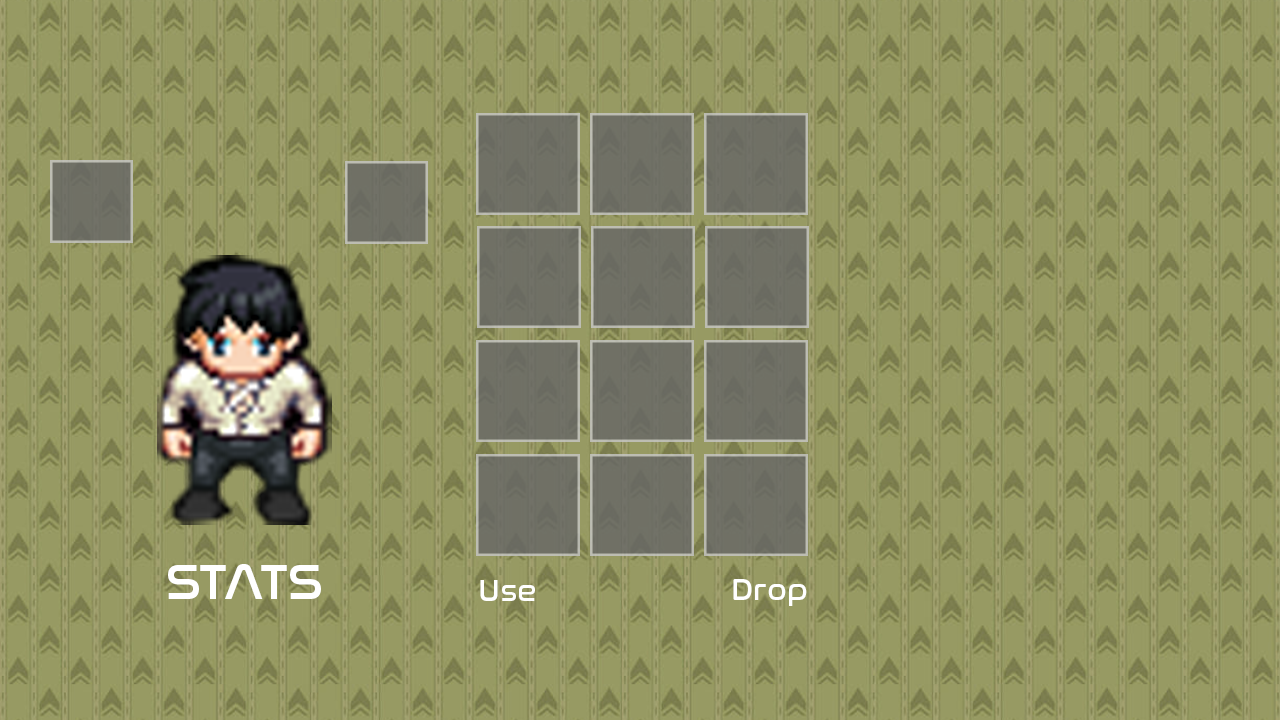
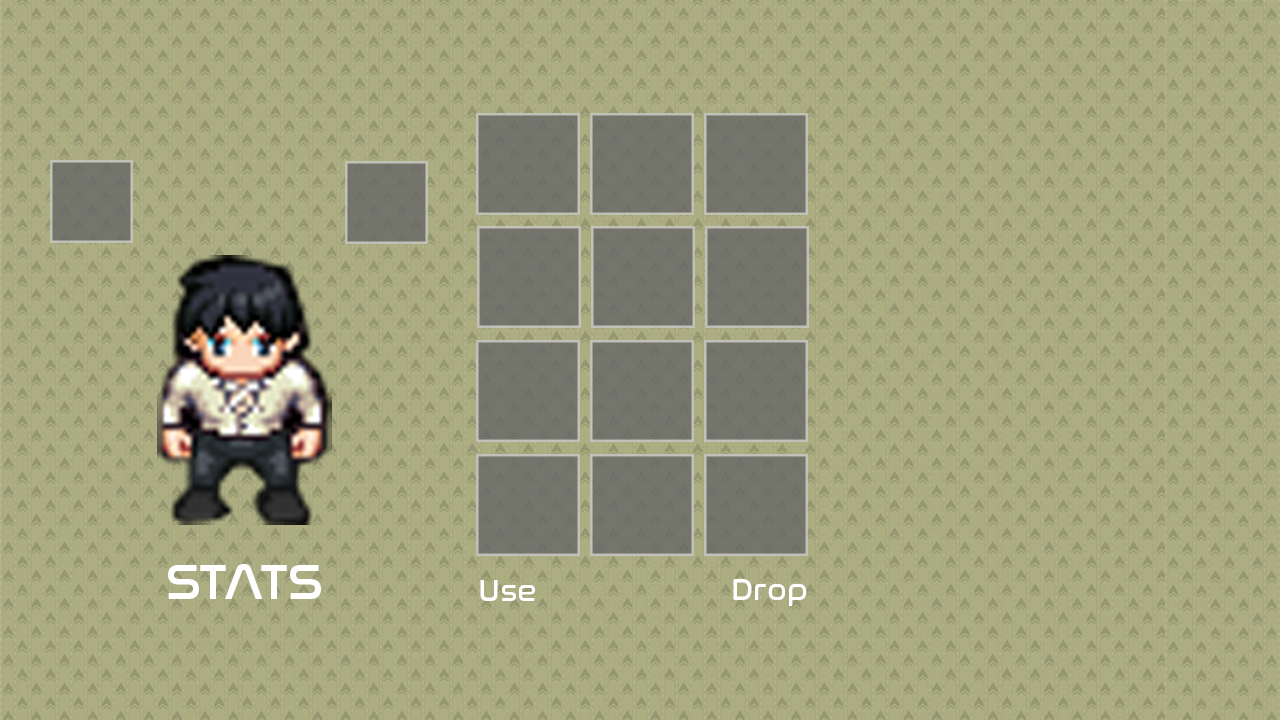
[~] reducing inventory opacity

diff --git a/src/inventory/draw.c b/src/inventory/draw.c
@@ -11,7 +11,8 @@
 void draw_item(game_t *game, int item, int box)
 {
     sfVector2u size = sfRenderTexture_getSize(game->rtex);
-    sfText *text = init_text(nbr_to_str(game->inventory->data->nb_items[box]), size.y / 40);
+    sfText *text = init_text(nbr_to_str(game->inventory->data->nb_items[box])
+    , size.y / 40);
     sfSprite *sprite = game->inventory->items_sprite[item];
     int line = box / 3;
     int col = box % 3;
@@ -27,13 +28,19 @@ void draw_item(game_t *game, int item, int box)
 
 void draw_inventory(game_t *game, window_t *win)
 {
+    sfRectangleShape *rect = sfRectangleShape_create();
+
+    sfRectangleShape_setFillColor(rect, (sfColor){50, 50, 50, 128});
+    sfRectangleShape_setSize(rect, (sfVector2f){1920, 1080});
     if (!game->inventory->draw)
-        return;
+        return sfRectangleShape_destroy(rect);
     center_inventory(game, win);
+    sfRenderTexture_drawRectangleShape(game->rtex, rect, NULL);
     sfRenderTexture_drawSprite(game->rtex, game->inventory->sprite, NULL);
     for (int i = 0; i < 12; i++) {
         if (game->inventory->data->nb_items[i] > 0 &&
         game->inventory->data->items[i] != -1)
             draw_item(game, game->inventory->data->items[i], i);
     }
+    sfRectangleShape_destroy(rect);
 }
